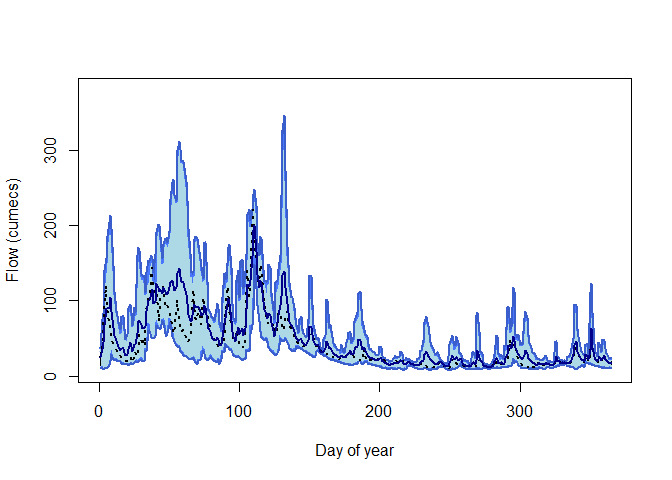
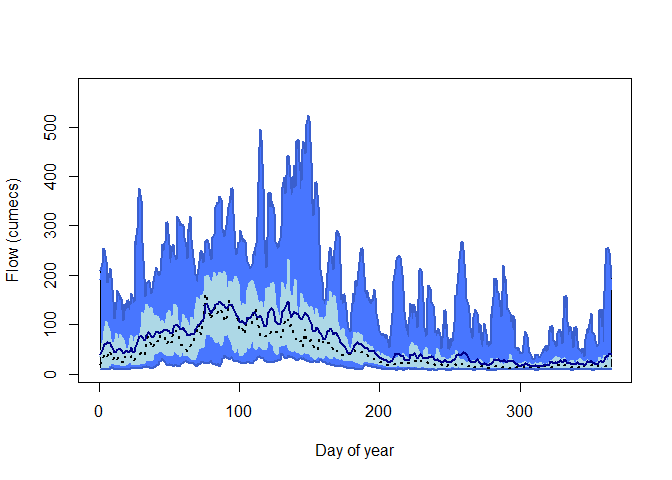
Updating home page

diff --git a/docs/index.html b/docs/index.html
@@ -72,6 +72,7 @@
 </div>
 <!-- badges: start -->
 
+<!-- badges: end -->
 </div>
 <div class="section level1">
 <h1 id="welcome-to-riskydata">Welcome to riskyData!<a class="anchor" aria-label="anchor" href="#welcome-to-riskydata"></a>
@@ -94,22 +95,20 @@
 <span><span class="fu"><a href="https://rdrr.io/r/utils/data.html" class="external-link">data</a></span><span class="op">(</span><span class="va">bewdley</span><span class="op">)</span></span>
 <span></span>
 <span><span class="va">bewdley</span><span class="op">$</span><span class="fu">hydroYearDay</span><span class="op">(</span><span class="op">)</span><span class="op">$</span><span class="fu">dayStats</span><span class="op">(</span>plot <span class="op">=</span> <span class="cn">TRUE</span><span class="op">)</span></span>
-<span><span class="co">#&gt; ℹ Calculating hydrological year and day✔ Calculating hydrological year and day [1.4s]</span></span>
-<span><span class="co">#&gt; Warning in `[.data.table`(dt1, -366, , ): Item 1 of i is -366 but there are</span></span>
-<span><span class="co">#&gt; only 365 rows. Ignoring this and 0 more like it out of 1.</span></span></code></pre></div>
+<span><span class="co">#&gt; ℹ Calculating hydrological year and day✔ Calculating hydrological year and day [6.5s]</span></span></code></pre></div>
 <p><img src="reference/figures/README-example-1.png" width="100%"></p>
-<div class="sourceCode" id="cb3"><pre class="sourceCode R"><code class="sourceCode r"><span id="cb3-1"><a href="#cb3-1" aria-hidden="true" tabindex="-1"></a><span class="co">#&gt;      dayYear     Mean Median   Min   Max   Perc5 Perc25  Perc75  Perc95</span></span>
-<span id="cb3-2"><a href="#cb3-2" aria-hidden="true" tabindex="-1"></a><span class="co">#&gt;   1:       1 24.10660  25.70 11.10  37.7 11.4350 13.275  32.425  36.895</span></span>
-<span id="cb3-3"><a href="#cb3-3" aria-hidden="true" tabindex="-1"></a><span class="co">#&gt;   2:       2 35.88368  30.60 10.20  75.1 10.7350 13.200  55.400  74.100</span></span>
-<span id="cb3-4"><a href="#cb3-4" aria-hidden="true" tabindex="-1"></a><span class="co">#&gt;   3:       3 44.31712  58.60  9.26  83.2  9.3535 10.800  64.250  71.600</span></span>
-<span id="cb3-5"><a href="#cb3-5" aria-hidden="true" tabindex="-1"></a><span class="co">#&gt;   4:       4 67.23299  85.70  9.65 140.0  9.9440 10.800 103.000 123.650</span></span>
-<span id="cb3-6"><a href="#cb3-6" aria-hidden="true" tabindex="-1"></a><span class="co">#&gt;   5:       5 90.21354 120.00 10.30 157.0 10.4000 11.700 135.000 150.000</span></span>
-<span id="cb3-7"><a href="#cb3-7" aria-hidden="true" tabindex="-1"></a><span class="co">#&gt;  ---                                                                   </span></span>
-<span id="cb3-8"><a href="#cb3-8" aria-hidden="true" tabindex="-1"></a><span class="co">#&gt; 361:     361 22.47500  22.45 10.10  37.0 10.4000 11.500  31.900  36.300</span></span>
-<span id="cb3-9"><a href="#cb3-9" aria-hidden="true" tabindex="-1"></a><span class="co">#&gt; 362:     362 20.31781  20.35  9.64  30.4 10.4000 13.100  27.700  29.945</span></span>
-<span id="cb3-10"><a href="#cb3-10" aria-hidden="true" tabindex="-1"></a><span class="co">#&gt; 363:     363 17.46755  16.95  9.75  26.4  9.9775 10.750  24.325  26.000</span></span>
-<span id="cb3-11"><a href="#cb3-11" aria-hidden="true" tabindex="-1"></a><span class="co">#&gt; 364:     364 16.98958  16.95 10.30  23.7 10.7000 13.775  20.900  22.590</span></span>
-<span id="cb3-12"><a href="#cb3-12" aria-hidden="true" tabindex="-1"></a><span class="co">#&gt; 365:     365 16.72240  16.90 10.00  24.4 10.2550 12.800  20.400  23.890</span></span></code></pre></div>
+<div class="sourceCode" id="cb3"><pre class="sourceCode R"><code class="sourceCode r"><span id="cb3-1"><a href="#cb3-1" aria-hidden="true" tabindex="-1"></a><span class="co">#&gt;      dayYear     Mean Median  Min Max   Perc5 Perc25  Perc75 Perc95</span></span>
+<span id="cb3-2"><a href="#cb3-2" aria-hidden="true" tabindex="-1"></a><span class="co">#&gt;   1:       1 39.17188  19.30 9.68 210 10.4000 12.200  35.600 192.00</span></span>
+<span id="cb3-3"><a href="#cb3-3" aria-hidden="true" tabindex="-1"></a><span class="co">#&gt;   2:       2 47.99227  25.80 9.64 225 10.2000 12.400  62.500 215.00</span></span>
+<span id="cb3-4"><a href="#cb3-4" aria-hidden="true" tabindex="-1"></a><span class="co">#&gt;   3:       3 53.14900  34.55 9.26 255  9.9715 11.600  67.725 228.00</span></span>
+<span id="cb3-5"><a href="#cb3-5" aria-hidden="true" tabindex="-1"></a><span class="co">#&gt;   4:       4 59.77555  40.65 9.39 252  9.9400 10.900  87.425 240.00</span></span>
+<span id="cb3-6"><a href="#cb3-6" aria-hidden="true" tabindex="-1"></a><span class="co">#&gt;   5:       5 63.06871  34.70 9.76 228 10.2000 11.700 106.000 189.85</span></span>
+<span id="cb3-7"><a href="#cb3-7" aria-hidden="true" tabindex="-1"></a><span class="co">#&gt;  ---                                                               </span></span>
+<span id="cb3-8"><a href="#cb3-8" aria-hidden="true" tabindex="-1"></a><span class="co">#&gt; 361:     361 33.29305  15.05 9.26 222 10.1000 10.975  35.925 163.85</span></span>
+<span id="cb3-9"><a href="#cb3-9" aria-hidden="true" tabindex="-1"></a><span class="co">#&gt; 362:     362 36.36758  15.85 8.77 254  9.8800 11.300  28.500 245.00</span></span>
+<span id="cb3-10"><a href="#cb3-10" aria-hidden="true" tabindex="-1"></a><span class="co">#&gt; 363:     363 38.64064  16.10 9.53 254  9.8115 11.000  26.100 250.00</span></span>
+<span id="cb3-11"><a href="#cb3-11" aria-hidden="true" tabindex="-1"></a><span class="co">#&gt; 364:     364 42.81338  16.20 9.35 247  9.8445 12.175  38.125 214.85</span></span>
+<span id="cb3-12"><a href="#cb3-12" aria-hidden="true" tabindex="-1"></a><span class="co">#&gt; 365:     365 40.54762  15.70 9.65 196 10.8000 12.500  31.550 172.00</span></span></code></pre></div>
 </div>
 </div>
 

diff --git a/README.md b/README.md
@@ -1,13 +1,14 @@
 
 <!-- README.md is generated from README.Rmd. Please edit that file -->
 
-# riskyData <img src="logo.png" align="right" width="120" />
+# riskyData <img src="logo.png" align="right" width="120"/>
 
 <!-- badges: start -->
 
 [![License: GNU General Public
 License](https://img.shields.io/badge/license-GNU%20General%20Public%20License-blue.svg)](https://cran.r-project.org/web/licenses/GNU%20General%20Public%20License)
 [![](https://img.shields.io/github/languages/code-size/JonPayneEA/HydroEnR.svg)](https://github.com/JonPayneEA/HydroEnR)
+
 <!-- badges: end -->
 
 # Welcome to riskyData!
@@ -36,22 +37,20 @@ library(riskyData)
 data(bewdley)
 
 bewdley$hydroYearDay()$dayStats(plot = TRUE)
-#> ℹ Calculating hydrological year and day✔ Calculating hydrological year and day [1.4s]
-#> Warning in `[.data.table`(dt1, -366, , ): Item 1 of i is -366 but there are
-#> only 365 rows. Ignoring this and 0 more like it out of 1.
+#> ℹ Calculating hydrological year and day✔ Calculating hydrological year and day [6.5s]
 ```
 
 <img src="man/figures/README-example-1.png" width="100%" />
 
-    #>      dayYear     Mean Median   Min   Max   Perc5 Perc25  Perc75  Perc95
-    #>   1:       1 24.10660  25.70 11.10  37.7 11.4350 13.275  32.425  36.895
-    #>   2:       2 35.88368  30.60 10.20  75.1 10.7350 13.200  55.400  74.100
-    #>   3:       3 44.31712  58.60  9.26  83.2  9.3535 10.800  64.250  71.600
-    #>   4:       4 67.23299  85.70  9.65 140.0  9.9440 10.800 103.000 123.650
-    #>   5:       5 90.21354 120.00 10.30 157.0 10.4000 11.700 135.000 150.000
-    #>  ---                                                                   
-    #> 361:     361 22.47500  22.45 10.10  37.0 10.4000 11.500  31.900  36.300
-    #> 362:     362 20.31781  20.35  9.64  30.4 10.4000 13.100  27.700  29.945
-    #> 363:     363 17.46755  16.95  9.75  26.4  9.9775 10.750  24.325  26.000
-    #> 364:     364 16.98958  16.95 10.30  23.7 10.7000 13.775  20.900  22.590
-    #> 365:     365 16.72240  16.90 10.00  24.4 10.2550 12.800  20.400  23.890
+    #>      dayYear     Mean Median  Min Max   Perc5 Perc25  Perc75 Perc95
+    #>   1:       1 39.17188  19.30 9.68 210 10.4000 12.200  35.600 192.00
+    #>   2:       2 47.99227  25.80 9.64 225 10.2000 12.400  62.500 215.00
+    #>   3:       3 53.14900  34.55 9.26 255  9.9715 11.600  67.725 228.00
+    #>   4:       4 59.77555  40.65 9.39 252  9.9400 10.900  87.425 240.00
+    #>   5:       5 63.06871  34.70 9.76 228 10.2000 11.700 106.000 189.85
+    #>  ---                                                               
+    #> 361:     361 33.29305  15.05 9.26 222 10.1000 10.975  35.925 163.85
+    #> 362:     362 36.36758  15.85 8.77 254  9.8800 11.300  28.500 245.00
+    #> 363:     363 38.64064  16.10 9.53 254  9.8115 11.000  26.100 250.00
+    #> 364:     364 42.81338  16.20 9.35 247  9.8445 12.175  38.125 214.85
+    #> 365:     365 40.54762  15.70 9.65 196 10.8000 12.500  31.550 172.00
